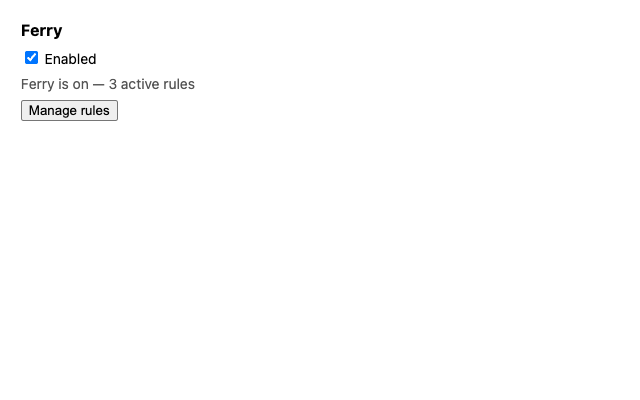
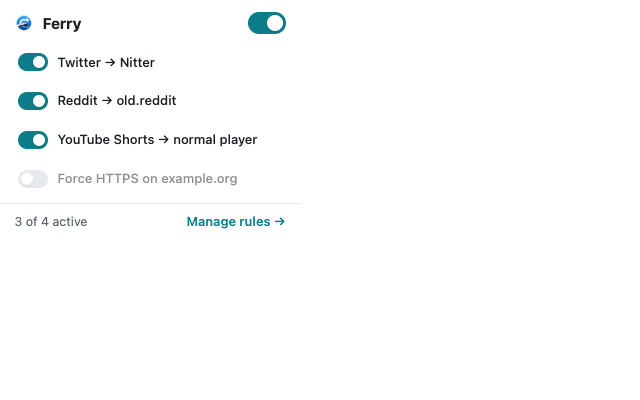
fix: render popup master toggle without off-to-on animation on open

diff --git a/src/popup.html b/src/popup.html
@@ -36,13 +36,15 @@
     .switch input { position: absolute; opacity: 0; width: 0; height: 0; }
     .switch .track {
       width: 38px; height: 22px; border-radius: 999px; position: relative; flex: none;
-      background: var(--border-strong); transition: background .15s;
+      background: var(--border-strong);
     }
     .switch .track::after {
       content: ""; position: absolute; top: 3px; left: 3px;
       width: 16px; height: 16px; border-radius: 50%;
-      background: #fff; box-shadow: 0 1px 2px rgba(0,0,0,.3); transition: transform .15s;
+      background: #fff; box-shadow: 0 1px 2px rgba(0,0,0,.3);
     }
+    body.ready .switch .track { transition: background .15s; }
+    body.ready .switch .track::after { transition: transform .15s; }
     .switch input:checked + .track { background: var(--accent); }
     .switch input:checked + .track::after { transform: translateX(16px); }
     .switch input:focus-visible + .track { outline: 2px solid var(--accent); outline-offset: 2px; }

diff --git a/src/popup.ts b/src/popup.ts
@@ -107,6 +107,11 @@ async function init() {
     getRules(), getDisabled(), getWhitelist(), activeTabUrl(),
   ]);
   render();
+  // Enable transitions only after the first frame has painted; adding the
+  // class in the same task as render() would still animate the initial state.
+  requestAnimationFrame(() => requestAnimationFrame(() => {
+    document.body.classList.add('ready');
+  }));
   void renderSyncError();
 }
 void init();
